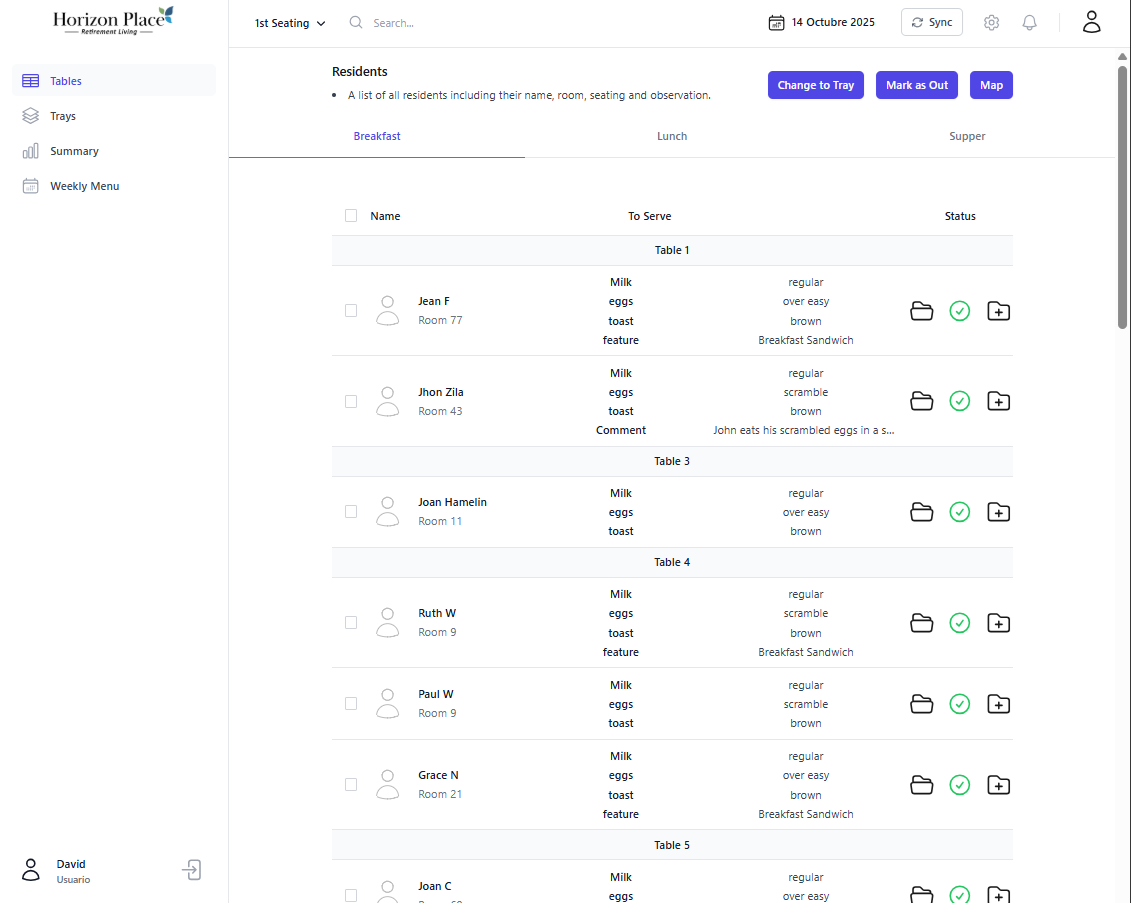
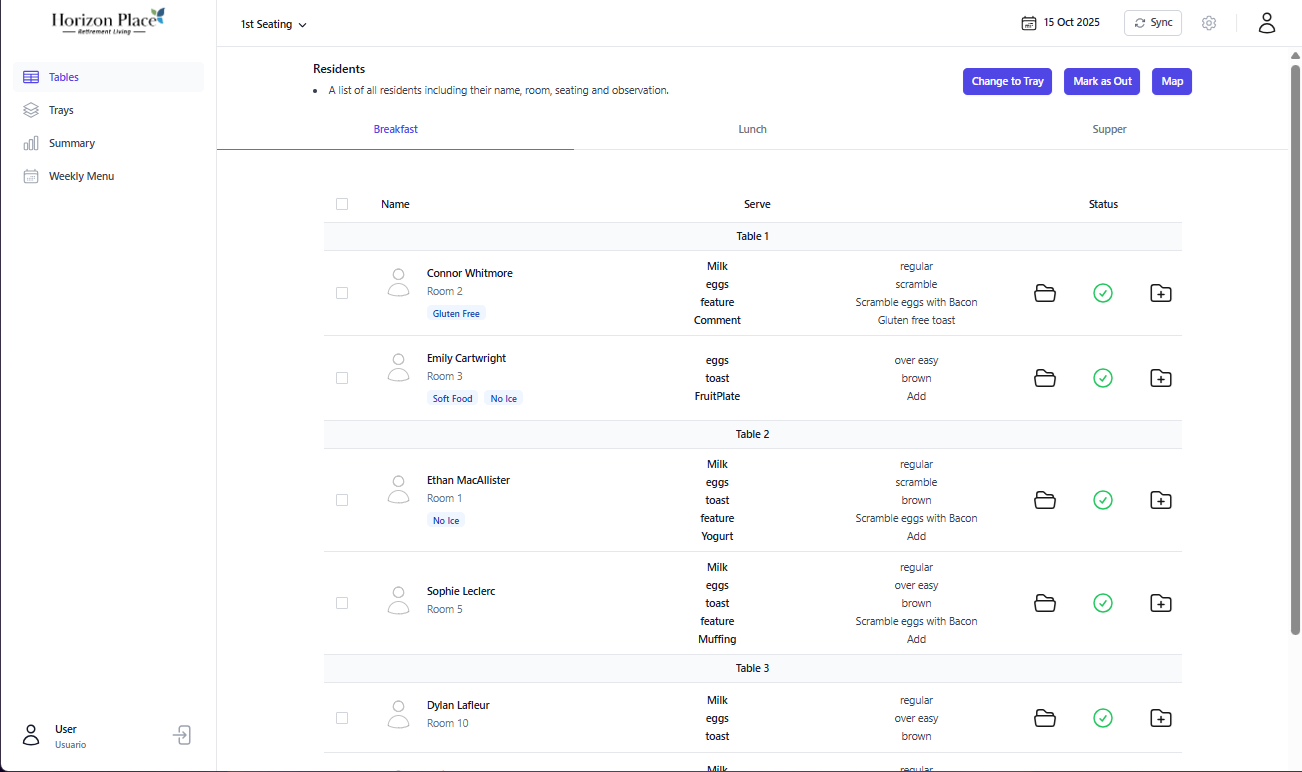
Update date constant to 2025-10-15, enhance Supper meal section by adding dessert option, and replace home.png with a new version.

diff --git a/src/constants/mealConstants.js b/src/constants/mealConstants.js
@@ -54,5 +54,5 @@ export const DAY_NAMES_SHORT = ['Mon', 'Tue', 'Wed', 'Thu', 'Fri', 'Sat', 'Sun']
 export const MEAL_SECTIONS = {
   Breakfast: ['feature'],
   Lunch: ['soup', 'salad', 'option_1', 'option_2', 'dessert'],
-  Supper: ['option_1', 'option_2', 'side_1', 'side_2', 'side_3', 'side_4']
+  Supper: ['option_1', 'option_2', 'side_1', 'side_2', 'side_3', 'side_4','dessert']
 };

diff --git a/src/constants/date.js b/src/constants/date.js
@@ -1,1 +1,1 @@
-export const date = "2025-10-14";
+export const date = "2025-10-15";
